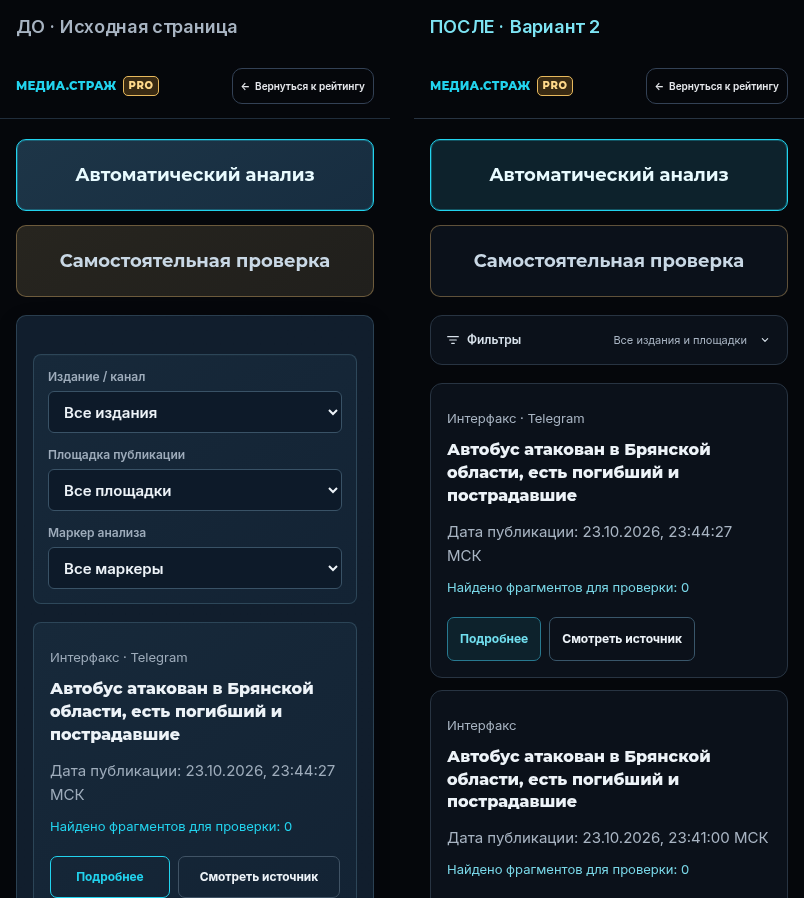
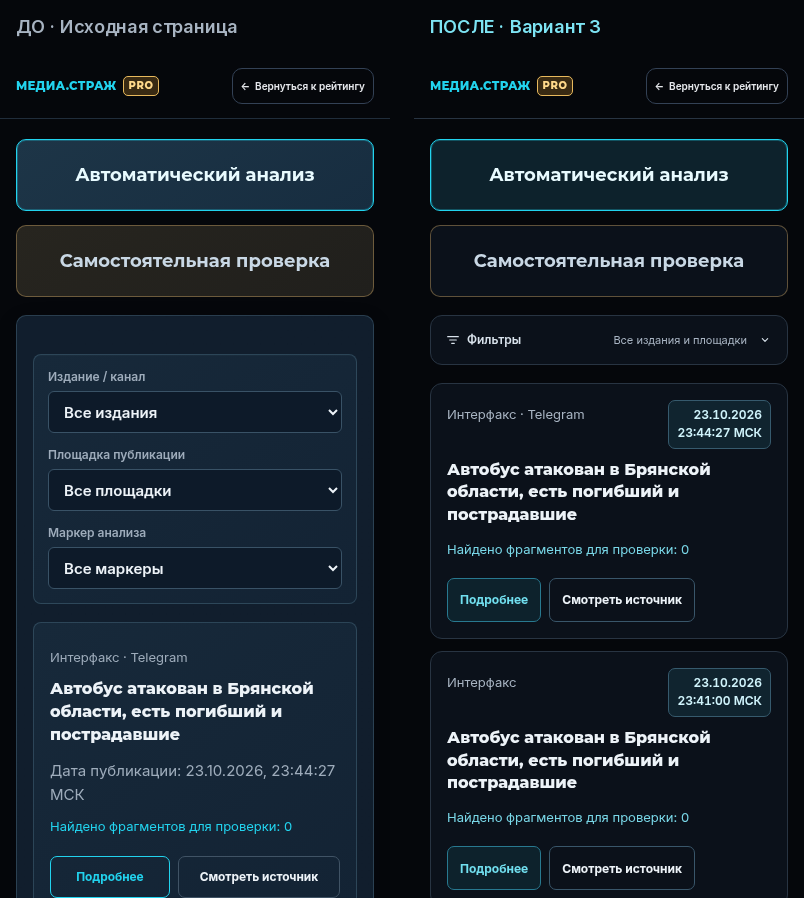
Move publication dates to the upper right in the isolated preview

Changed region(s): [[0.5286, 0.4365, 0.9639, 0.9978]]

diff --git a/design-preview/analysis/preview.css b/design-preview/analysis/preview.css
@@ -1,5 +1,5 @@
-/* Preview v2: approved palette and mobile filters/cards only.
-   Header, mode buttons, desktop geometry, typography and manual form stay original. */
+/* Approved palette, mobile filters/cards and publication date position.
+   Header, mode buttons, filter geometry, typography and manual form stay original. */
 :root {
   --panel: #0b111a;
   --panel-2: #111923;
@@ -29,6 +29,52 @@
 .auto-modal, .auto-modal-section { background: #0b111a; box-shadow: none; }
 .auto-modal-close { background: #111923; }
 .auto-modal-tooltip, .manual-tooltip { background: #0a141e; }
+
+/* The date shares a flow row with the source, so neither can cover the other. */
+.publication-header {
+  display: flex;
+  align-items: flex-start;
+  justify-content: space-between;
+  gap: 16px;
+  margin-bottom: 4px;
+}
+.publication-header .publication-meta {
+  flex: 1;
+  min-width: 0;
+  margin: 0;
+  padding-top: 6px;
+  overflow-wrap: anywhere;
+}
+.publication-header .legal-status-tag { max-width: calc(100% - 9px); }
+.publication-header .publication-time {
+  flex-shrink: 0;
+  display: flex;
+  align-items: flex-end;
+  gap: 8px;
+  margin: 0;
+  padding: 6px 9px;
+  border: 1px solid #365a6d;
+  border-radius: 7px;
+  background: #10242f;
+  color: #d0f4fc;
+  font-size: 13px;
+  font-weight: 600;
+  font-variant-numeric: tabular-nums;
+  line-height: 1.4;
+  text-align: right;
+  white-space: nowrap;
+}
+.publication-time-context {
+  position: absolute;
+  width: 1px;
+  height: 1px;
+  padding: 0;
+  margin: -1px;
+  overflow: hidden;
+  clip-path: inset(50%);
+  white-space: nowrap;
+  border: 0;
+}
 
 /* Native disclosure changes only the filter block; other page markup is original. */
 .preview-filter { margin: 22px 0 18px; padding: 0; border: 0; }
@@ -64,6 +110,14 @@
   }
   .preview-filter-reset { display: block; min-height: 44px; font-size: 13px; }
   #automaticPanel .publication { margin: 12px 0; padding: 16px; border-radius: 12px; }
+  .publication-header { gap: 12px; }
+  .publication-header .publication-meta { padding-top: 4px; }
+  .publication-header .publication-time {
+    flex-direction: column;
+    gap: 1px;
+    padding: 6px 8px;
+    font-size: 12px;
+  }
   .publication .publication-actions { display: flex; gap: 8px; flex-wrap: wrap; }
   .publication .publication-actions .auto-details-button, .publication .publication-actions .source-link {
     width: auto; min-height: 44px; padding: 9px 12px; font-size: 12px;

diff --git a/design-preview/analysis/preview.js b/design-preview/analysis/preview.js
@@ -1,4 +1,4 @@
-/* Preview v2: only the filter disclosure and reset; production mode/analysis code is unchanged. */
+/* Presentation-only filters and publication dates; production analysis code is unchanged. */
 (() => {
   'use strict';
   const panel = document.getElementById('filterPanel');
@@ -26,4 +26,39 @@
     fields[0].dispatchEvent(new Event('change'));
     describe();
   });
+
+  function positionDates() {
+    for (const article of document.querySelectorAll('#articles .publication')) {
+      if (article.querySelector('.publication-header')) continue;
+      const source = article.querySelector('.publication-meta');
+      const stamp = Array.from(article.children).find(child =>
+        child.tagName === 'P' && child.textContent.startsWith('Дата публикации:'));
+      if (!source || !stamp) continue;
+
+      // Reuse the viewer's Moscow time verbatim; no parsing or conversion of source dates.
+      const value = stamp.textContent.replace(/^Дата публикации:\s*/, '');
+      const parts = /^(\d{2}\.\d{2}\.\d{4}),\s*(.+)$/.exec(value);
+      const context = document.createElement('span');
+      context.className = 'publication-time-context';
+      context.textContent = 'Дата публикации: ';
+      const date = document.createElement('span');
+      date.className = 'publication-time-date';
+      date.textContent = parts ? parts[1] : value;
+      stamp.replaceChildren(context, date);
+      if (parts) {
+        const clock = document.createElement('span');
+        clock.className = 'publication-time-clock';
+        clock.textContent = parts[2];
+        stamp.append(document.createTextNode(' '), clock);
+      }
+      stamp.classList.remove('muted');
+      stamp.classList.add('publication-time');
+      const header = document.createElement('div');
+      header.className = 'publication-header';
+      article.insertBefore(header, source);
+      header.append(source, stamp);
+    }
+  }
+  new MutationObserver(positionDates).observe(document.getElementById('articles'), {childList: true});
+  positionDates();
 })();

diff --git a/design-preview/analysis/after.html b/design-preview/analysis/after.html
@@ -306,8 +306,8 @@
 </style>
   <link rel="stylesheet" href="mobile-typography.css?v=mobile1">
 <link rel="stylesheet" href="analysis-surfaces.css?v=surface1">
-<link rel="stylesheet" href="design-preview/analysis/preview.css?v=2">
-<script defer src="design-preview/analysis/preview.js?v=2"></script>
+<link rel="stylesheet" href="design-preview/analysis/preview.css?v=3">
+<script defer src="design-preview/analysis/preview.js?v=3"></script>
 </head>
 <body>
 <header class="site-header">

diff --git a/design-preview/check_preview.py b/design-preview/check_preview.py
@@ -41,6 +41,8 @@ async def run(runtime, output):
                 await page.goto(prefix+'before.html', wait_until='networkidle')
                 await page.evaluate('document.fonts.ready')
                 await page.wait_for_selector('.publication')
+                original_dates = [text.removeprefix('Дата публикации: ')
+                                  for text in await page.locator('.publication > p.muted').all_text_contents()]
                 original = await page.evaluate("""() => ({
                   zoom:getComputedStyle(document.body).zoom,
                   header:document.querySelector('.site-header').innerHTML,
@@ -62,8 +64,22 @@ async def run(runtime, output):
                 })""")
                 assert preserved == original, f'Original header or mode layout changed at {width}px'
                 assert measure['visible'] == measure['total'], measure
+                dates = await page.locator('.publication').evaluate_all("""cards => cards.map(card => {
+                  const time=card.querySelector('.publication-time'),source=card.querySelector('.publication-meta'),title=card.querySelector('.publication-title');
+                  const c=card.getBoundingClientRect(),t=time.getBoundingClientRect(),s=source.getBoundingClientRect();
+                  const clock=time.querySelector('.publication-time-clock');
+                  return {value:time.querySelector('.publication-time-date').textContent+(clock?', '+clock.textContent:''),
+                    contained:t.left>=c.left&&t.right<=c.right&&t.top>=c.top,
+                    topRight:c.right-t.right<=24&&t.top-c.top<=24,
+                    beforeTitle:t.bottom<=title.getBoundingClientRect().top,
+                    sourceSeparate:s.right<=t.left,
+                    hiddenLabel:getComputedStyle(time.querySelector('.publication-time-context')).clipPath==='inset(50%)'};
+                })""")
+                assert [item['value'] for item in dates] == original_dates, 'Published time must stay unchanged'
+                assert all(all(item[key] for key in ['contained','topRight','beforeTitle','sourceSeparate','hiddenLabel']) for item in dates), (width, dates)
                 assert await page.locator('.page-heading,.manual-guidance,#listPagination,#sourceDetailsToggle').count() == 0
                 measure['original_header_and_modes'] = 'identical'
+                measure['publication_dates'] = 'original values, top right, no overlap or visible label'
                 results['viewports'].append(measure)
                 if width in (1440, 390):
                     await page.screenshot(path=str(output/f'after-{width}.png'))
@@ -149,6 +165,25 @@ async def run(runtime, output):
             await page.locator('[data-size="phone"]').click()
             assert await page.locator('#afterPane').evaluate('(e)=>e.getBoundingClientRect().width') == 390
             results['functional'].append('before/after/split comparison and phone size')
+
+            fixture = json.loads((ROOT/'design-preview/analysis/snapshot.json').read_text())
+            item = fixture['articles'][0]
+            item['published_at'] = None
+            item['source'] = 'Очень длинное название редакции для проверки переноса строк · Telegram'
+            marked_source = next(source for source in fixture['sources'] if source.get('publisher_id') == 'meduza')
+            item['source_id'] = marked_source['id']
+            fixture['articles'] = [item]
+            await page.route('**/data/analysis.json', lambda route: route.fulfill(json=fixture))
+            await page.set_viewport_size({'width':320,'height':844})
+            await page.goto(prefix+'after.html', wait_until='networkidle')
+            assert await page.locator('.publication-time-date').inner_text() == 'не указана'
+            assert await page.locator('.publication-time-clock').count() == 0
+            assert await page.locator('.legal-status-tag').count() > 0
+            assert await page.evaluate("""() => {
+              const card=document.querySelector('.publication'),time=card.querySelector('.publication-time').getBoundingClientRect();
+              return document.documentElement.scrollWidth<=innerWidth && [...card.querySelectorAll('.publication-meta,.legal-status-tag')].every(e=>e.getBoundingClientRect().right<=time.left);
+            }""")
+            results['functional'].append('missing publication date and long source with legal badges fit at 320px')
             assert not results['errors'], results['errors']
             assert not results['external_requests'], results['external_requests']
             await browser.close()

diff --git a/design-preview/README.md b/design-preview/README.md
@@ -1,8 +1,10 @@
-# МЕДИА.СТРАЖ — предпросмотр, вариант 2
+# МЕДИА.СТРАЖ — предпросмотр, вариант 3
 
-Второй вариант учитывает выбор владельца: **сохранены исходные шапка, расположение
+Предпросмотр учитывает выбор владельца: **сохранены исходные шапка, расположение
 элементов и две большие кнопки режимов**. Из первого варианта оставлены графитовая
-палитра, сворачиваемый фильтр и оформление карточек на телефоне.
+палитра, сворачиваемый фильтр и оформление карточек на телефоне. Дата и время
+публикации теперь находятся в правом верхнем углу карточки: светлый текст на
+сдержанной циановой подложке, без видимой подписи «Дата публикации».
 
 Рабочие `index.html`, `analysis.html`, остальные страницы, их CSS/JS и Python-анализатор
 не изменены. Изменения находятся только в папке предпросмотра и её проверках.
@@ -29,7 +31,7 @@
 
 1. [Откройте ветку в Codespaces](https://codespaces.new/artemsmakov1997-debug/media.srtrazh?ref=design%2Fanalysis-preview-v1).
    Ветка — `design/analysis-preview-v1`. Если Codespace уже открыт в этой ветке,
-   сохраните свои изменения и выполните `git pull --ff-only` для получения второго варианта.
+   сохраните свои изменения и выполните `git pull --ff-only` для получения актуального варианта.
 2. В терминале из корня проекта:
 
    ```sh
@@ -46,7 +48,7 @@
 
 ## Что оставлено и что возвращено
 
-| Элемент | Вариант 2 |
+| Элемент | Текущий вариант |
 |---|---|
 | Шапка и возврат к рейтингу | Исходная разметка, размеры, шрифты и расположение |
 | «Автоматический анализ» / «Самостоятельная проверка» | Исходные большие кнопки: рядом на десктопе, друг под другом на телефоне |
@@ -54,13 +56,15 @@
 | Цвета | Спокойные графитовые поверхности из первого предпросмотра; общий фон и циан сохранены |
 | Фильтры | На десктопе исходное расположение; на телефоне сворачиваются, показывают выбранные условия, есть сброс |
 | Карточки на телефоне | Плоские поверхности, скругления и удобные зоны действий из первого предпросмотра |
+| Дата и время публикации | Справа сверху, заметнее обычных метаданных; значение, секунды и МСК сохранены |
 | Ручной анализ | Исходная форма и её расположение; подсветка, пояснения и JSON сохранены |
 | Дополнительный заголовок, боковая колонка и новый футер | Убраны |
 | Новые строки статуса/охвата и выдача по 12 | Убраны; восстановлен исходный полный список |
 
 `after.html` снова построен на копии оригинальной страницы: вне блока фильтров
 разметка совпадает с `before.html`. Новый CSS меняет палитру и мобильные блоки,
-новый JS отвечает только за сворачивание фильтров и сброс. Исходные скрипты режимов,
+новый JS отвечает за сворачивание фильтров, сброс и перенос уже отформатированной даты
+в шапку карточки. Исходные скрипты режимов,
 обработки публикаций и ручного анализа используются без изменений.
 
 ## Данные и проверки
@@ -78,6 +82,8 @@
 проверяются фильтры/сброс, полный список, отсутствие горизонтального переполнения,
 разбор публикации и возврат фокуса, точное совпадение ручного JSON с Python,
 редактирование, очистка, пояснение при касании и обе обязательные оговорки.
+Проверяется сохранение всех исходных значений дат, отсутствие наложения на источник
+и заголовок, а также случаи без даты и с длинным названием/правовыми отметками при 320 px.
 
 [Измерения и результаты](screens/checks.json). Проверка выполняется в Chromium;
 физические телефоны и Safari пока не проверялись. GitHub Actions запускает также
